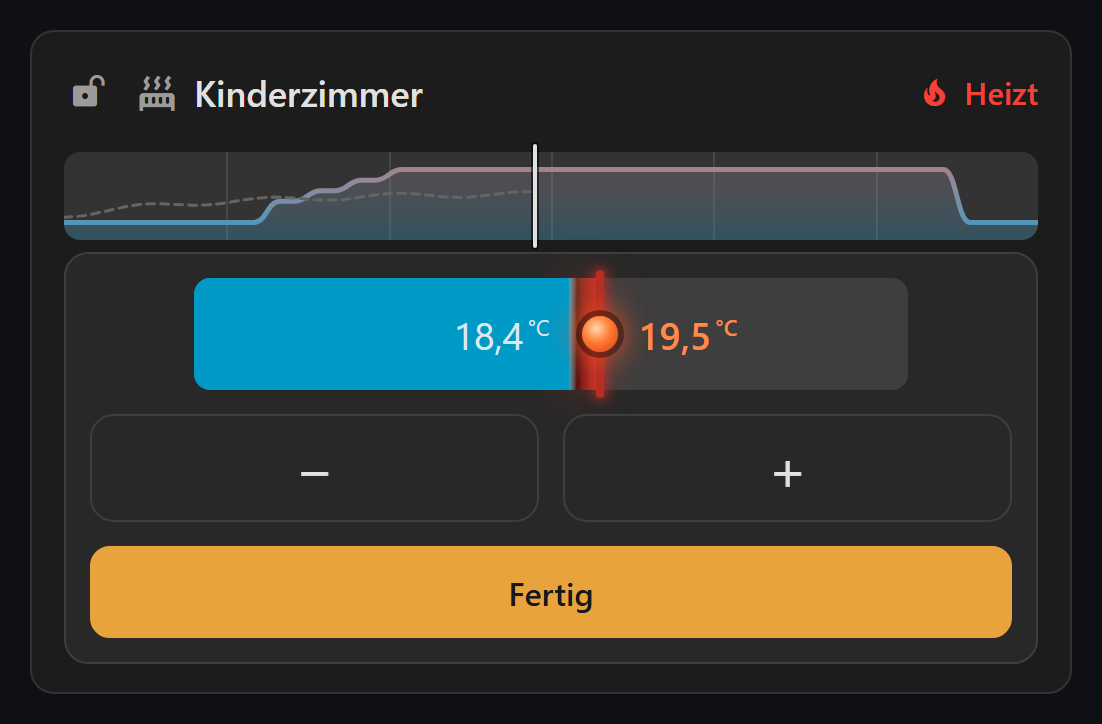
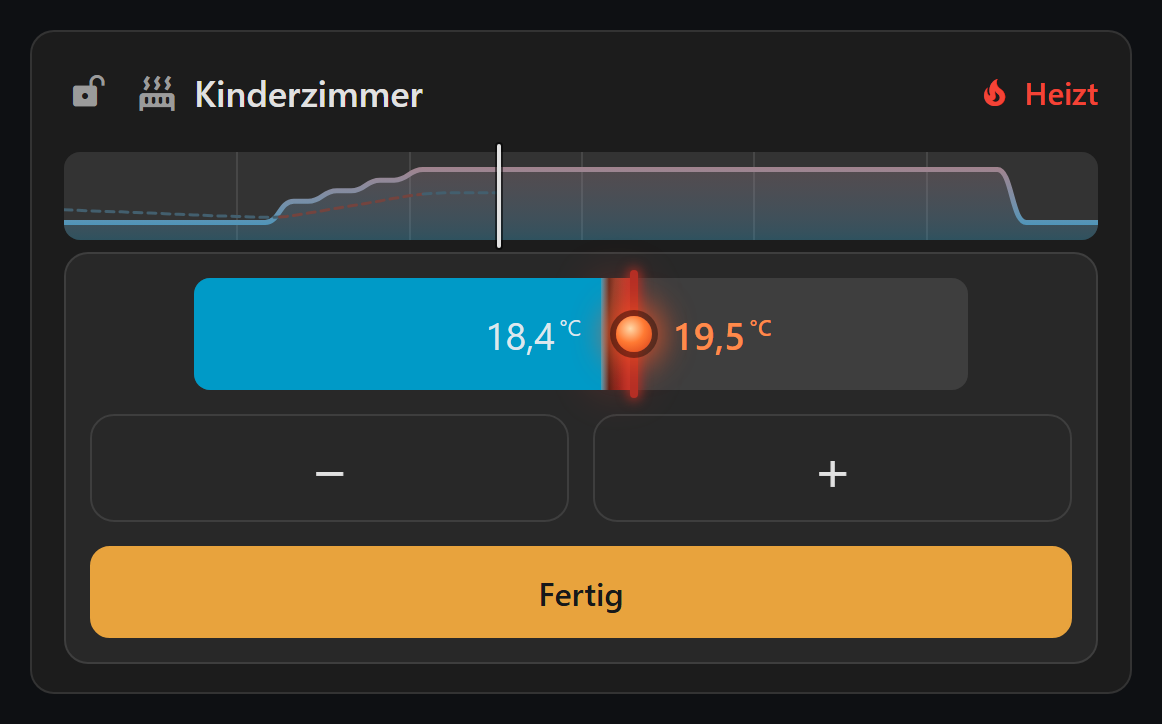
README zum Heizprofil und zur Entwicklung, Screenshots erneuert, Version 0.4.0

diff --git a/dist/thermostat-bar-card.js b/dist/thermostat-bar-card.js
@@ -1,8 +1,8 @@
-// Thermostat Bar Card 0.3.1
+// Thermostat Bar Card 0.4.0
 // Gebaut aus src/ mit npm run build. Nicht von Hand bearbeiten.
 
 // src/konstanten.js
-var CARD_VERSION = "0.3.1";
+var CARD_VERSION = "0.4.0";
 var IST_FARBE = "var(--primary-color, #009ac7)";
 var WAERME_FARBE = "var(--red-color, #f44336)";
 var STANDARDFARBEN = {

diff --git a/src/konstanten.js b/src/konstanten.js
@@ -1,4 +1,4 @@
-export const CARD_VERSION = "0.3.1";
+export const CARD_VERSION = "0.4.0";
 
 // Ein Blau fuer Ist und Automatik, ein Rot fuer alles, was heizt. Beide sind
 // Theme-Farben von Home Assistant und folgen damit dem eingestellten Theme.

diff --git a/README.md b/README.md
@@ -10,7 +10,8 @@ Entstanden, weil die eingebaute Thermostat-Karte ihren Rundregler zugleich als B
 
 Die Leiste in der Karte ist **reine Anzeige**. Sie fängt keine Wischgeste ab, deshalb lässt sich über einem Dashboard voller solcher Karten ungestört scrollen, ohne versehentlich eine Temperatur zu verstellen.
 
-- **600 ms halten** öffnet den Bearbeitungsmodus. Bewegt sich der Finger vorher um mehr als sechs Pixel, bricht die Geste ab.
+- **600 ms auf der Leiste halten** öffnet den Bearbeitungsmodus. Bewegt sich der Finger vorher um mehr als sechs Pixel, bricht die Geste ab.
+- **600 ms auf dem Tagesplan halten** öffnet das [Heizprofil](#heizprofil-bearbeiten).
 - Im Bearbeitungsmodus erscheint dieselbe Leiste noch einmal, dort **ziehbar**, darunter große **Plus- und Minus-Flächen** und ein **Fertig**-Knopf.
 - Schließen durch Tippen daneben oder über **Fertig**.
 - Über Tastatur: Leiste fokussieren, dann Eingabe oder Leertaste.
@@ -146,6 +147,21 @@ schedule:
 
 Farben nehmen Theme-Farbnamen von Home Assistant wie `primary`, `red` oder `secondary-text` an und folgen damit dem Theme. Jede andere CSS-Farbangabe wie `#ff9800` geht ebenso.
 
+### Heizprofil bearbeiten
+
+Halten auf dem Tagesplan öffnet die Wochenpläne des Thermostats als Blatt, das von unten hereinfährt und auch auf kleinen Telefonen bedienbar bleibt.
+
+<img src="https://raw.githubusercontent.com/SvMo85/ha-thermostat-bar-card/main/images/heizprofil.png" width="320" alt="Heizprofil: Profile P1 bis P3, Wochentage, Tageskurve und Zeiträume mit Plus- und Minus-Flächen">
+
+- **Profile und Tage:** Es öffnet sich das aktive Profil mit dem heutigen Tag. Der Punkt unter einem Profil oder Tag markiert das aktive Profil und heute. Es erscheinen nur die Profile, die das Gerät meldet.
+- **Zeiträume:** Temperatur über Plus und Minus. Tippen auf eine Uhrzeit öffnet die Zeitauswahl des Telefons. Uhrzeiten rasten auf 5 Minuten wie in OpenCCU, Zeiträume überlappen sich nie.
+- **Schaltpunkte:** Ein Tag hat höchstens 13 Schaltpunkte. Jeder Zeitraum zählt, jede Lücke mit Grundtemperatur ebenso. Die Anzeige „8 von 13 Schaltpunkten“ zählt mit, ist alles belegt, lässt sich kein Zeitraum mehr hinzufügen.
+- **Woche:** Der Kalender oben rechts zeigt die ganze Woche, Tippen auf einen Tag öffnet ihn.
+- **Auf Tage kopieren:** Den gezeigten Tag auf andere Tage übertragen, mit Schnellwahl für Werktage, Wochenende oder alle.
+- **Speichern:** Geänderte Tage tragen einen Punkt. Gespeichert wird erst über „Speichern“, je Tag ein Aufruf von `homematicip_local.set_schedule_weekday`.
+
+Das aktive Profil steht im Attribut `schedule_data`. Die übrigen lädt die Karte beim Antippen über `homematicip_local.get_schedule_profile` vom Gerät, das dauert bei Batteriegeräten einen Moment.
+
 ### Farben
 
 Jeder Wert nimmt eine beliebige CSS-Farbangabe an, also auch Theme-Variablen wie `var(--primary-color)`. Die Vorgaben nutzen die Theme-Farben `--primary-color` für alles, was Ist und Automatik betrifft, und `--red-color` für alles, was heizt.
@@ -196,6 +212,19 @@ Beides kann auseinanderlaufen: Nach einer Absenkung fährt ein Ventil allmählic
 Die Karte ändert beim Verstellen der Temperatur **nicht** den Betriebsmodus. Das ist Absicht: Homematic-IP-Thermostate behalten einen im Automatikbetrieb gesetzten Wert bis zum nächsten Schaltzeitpunkt des Heizprofils bei und kehren danach ins Profil zurück. Wer einen Wert dauerhaft halten will, schaltet über den Knopf auf Heizen.
 
 Die Bedienungssperre am Gerät ist bei Homematic IP ein eigener Geräteparameter und keine Eigenschaft der Klima-Entität. Die passende Schalter-Entität gehört deshalb in `lock_entity`.
+
+## Entwicklung
+
+Der Quellcode liegt nach Themen getrennt unter `src/`. Daraus baut esbuild die eine Datei `dist/thermostat-bar-card.js`, die Home Assistant lädt. Die Datei in `dist/` wird nicht von Hand bearbeitet.
+
+```sh
+npm install
+npm run build   # einmal bauen
+npm run watch   # bei jeder Änderung neu bauen
+npm test        # Unit-Tests mit Abdeckung
+```
+
+Die Prüfung auf GitHub schlägt fehl, wenn `dist/` nicht zum Stand von `src/` passt.
 
 ## Lizenz
 
